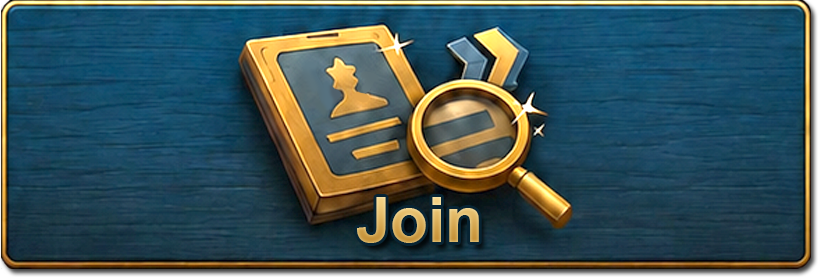
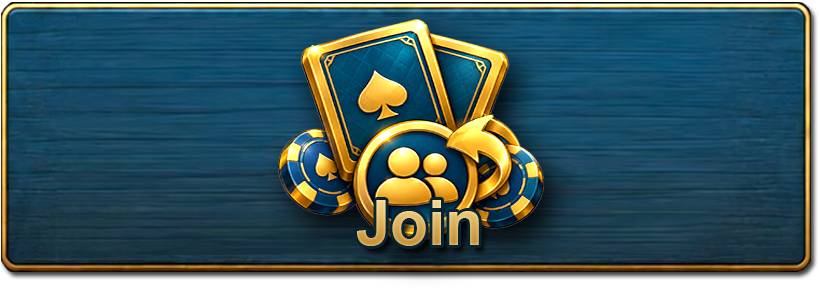
Fix Issue and Change Some UI regarding Friend Table

diff --git a/UnityProject/Assets/Scripts/Club/FriendTable/CreateFriendTable.cs b/UnityProject/Assets/Scripts/Club/FriendTable/CreateFriendTable.cs
@@ -406,6 +406,7 @@ public class CreateFriendTable : MonoBehaviour
     {
         if (ErrorText != null) ErrorText.text = message;
         Debug.LogWarning(message);
+        InformationPrefabScript.Instance.ShowMessage(message);
         ClearErrorAfterDelay().Forget();
     }
 
